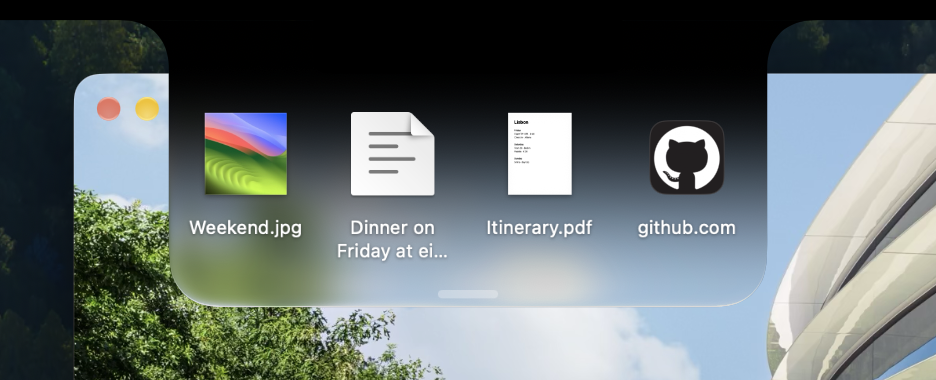
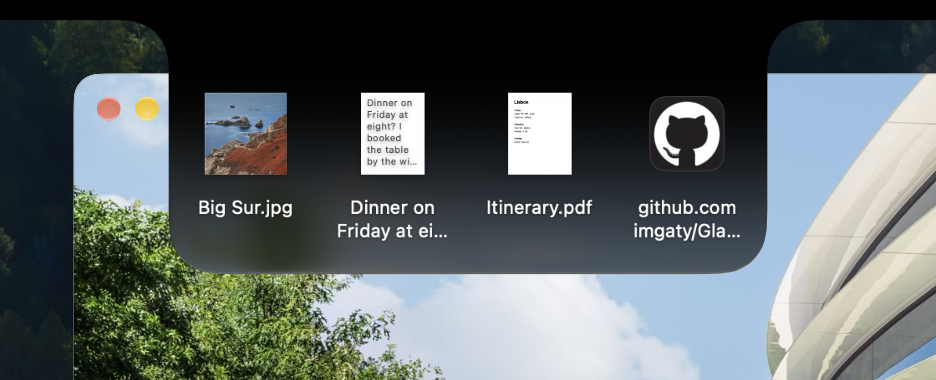
Glance 0.2.0 Tray - README player shortcut and tray picture
- Added ⇧⌘1 to the README, beside hovering and clicking, as the way to open the player from any app.
- Changed the demo tray's photo, in the welcome tour and the pictures of Glance, from an abstract desktop picture to a photo of the Big Sur coast.
- Updated the tray's picture in the README and the user manual to the tray as it is now, and its description.

Changed region(s): [[0.1549, 0.2316, 0.8365, 0.8105], [0.7436, 0.7816, 0.7746, 0.8105]]

diff --git a/Sources/Glance/Tray/TrayDemo.swift b/Sources/Glance/Tray/TrayDemo.swift
@@ -54,18 +54,19 @@ extension Tray {
         return tray
     }()
 
-    /// One of macOS's own desktop pictures, made small.
+    /// A photo from macOS's own desktop pictures, the Big Sur coast, made small: a real place, as a
+    /// photo kept in the tray would be, rather than one of the abstract ones.
     private static func photo(in folder: URL) -> URL? {
         let pictures = URL(fileURLWithPath: "/System/Library/Desktop Pictures")
+        let photos = [".thumbnails/Big Sur Coastline.heic", ".thumbnails/Big Sur Aerial.heic", ".thumbnails/Catalina Coast.heic"]
         guard
-            let original = ["Sonoma.heic", "iMac Blue.heic", "Mac Blue.heic"].map({ pictures.appending(path: $0) })
-                .first(where: { FileManager.default.fileExists(atPath: $0.path) }),
+            let original = photos.map({ pictures.appending(path: $0) }).first(where: { FileManager.default.fileExists(atPath: $0.path) }),
             let source = CGImageSourceCreateWithURL(original as CFURL, nil),
             let image = CGImageSourceCreateThumbnailAtIndex(
                 source, 0,
                 [kCGImageSourceCreateThumbnailFromImageAlways: true, kCGImageSourceThumbnailMaxPixelSize: 1200] as CFDictionary)
         else { return nil }
-        let url = folder.appending(path: "Weekend.jpg")
+        let url = folder.appending(path: "Big Sur.jpg")
         guard let destination = CGImageDestinationCreateWithURL(url as CFURL, UTType.jpeg.identifier as CFString, 1, nil) else { return nil }
         CGImageDestinationAddImage(destination, image, nil)
         return CGImageDestinationFinalize(destination) ? url : nil

diff --git a/README.md b/README.md
@@ -21,7 +21,7 @@ check for updates.
 Any app that tells macOS what it's playing shows up here
 (the same apps Control Center lists under Now Playing), and you can turn each
 one on or off in Settings. Hover over the notch or click it to reveal the
-controls.
+controls, or press ⇧⌘1 in any app to open it.
 
 <img src="./assets/screenshots/player.gif"
      width="450"
@@ -86,8 +86,9 @@ screenshots, ready to paste again or AirDrop. Press ⇧⌘2 in any app to open i
 <img src="./assets/screenshots/tray.png"
      width="450"
      alt="The open notch on the tray, showing its items as Finder does: a
-     photo, a text clipping copied from Notes, a PDF and a link to github.com
-     with the site's icon, each with its name under it.">
+     photo of the Big Sur coast, a note copied from Notes as a page of its
+     words, a PDF, and a link to github.com with the site's icon, each with
+     its name under it.">
 <br>
 <sub>Showcase of the tray, with files and copies.</sub>
 

diff --git a/docs/USER-MANUAL.md b/docs/USER-MANUAL.md
@@ -1,6 +1,6 @@
 # User Manual
 
-`Created: 11 October 2026` | `Last updated: 15 October 2026`
+`Created: 11 October 2026` | `Last updated: 16 October 2026`
 
 Installing, using, updating, and removing Glance and all its features.
 
@@ -161,8 +161,9 @@ for the drop, without reaching the top edge.
 <img src="../assets/screenshots/tray.png"
      width="450"
      alt="The open notch on the tray, showing its items as Finder does: a
-     photo, a text clipping copied from Notes, a PDF and a link to github.com
-     with the site's icon, each with its name under it.">
+     photo of the Big Sur coast, a note copied from Notes as a page of its
+     words, a PDF, and a link to github.com with the site's icon, each with
+     its name under it.">
 <br>
 <sub>The tray, with files dropped on it and a note and a link copied</sub>
 
